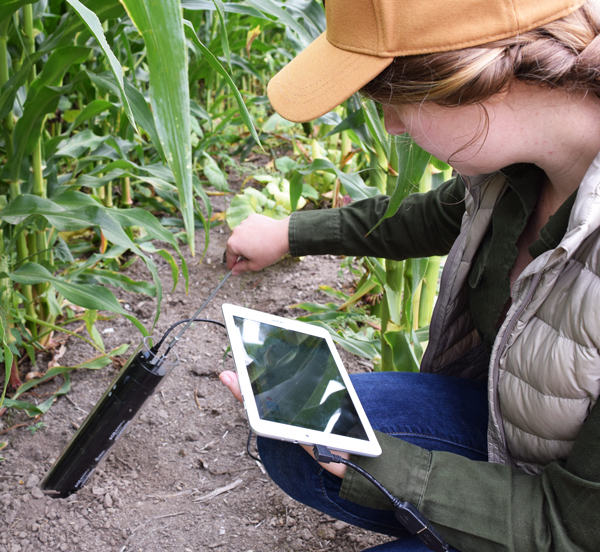
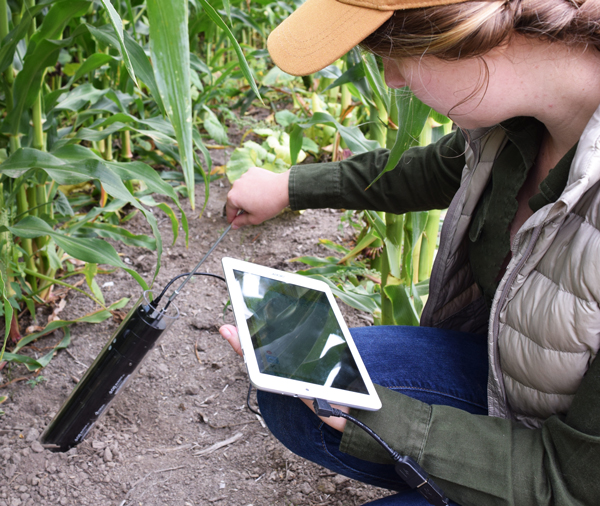
alt text for images added, images recropped for better visibility

diff --git a/index.html b/index.html
@@ -45,7 +45,7 @@
           <div class="row center-block"> <!-- intro content -->
 
             <div class="col-md-4 col-md-offset-1">
-              <img src="images/minirhiz-howitworks.gif" class="img-responsive">
+              <img src="images/minirhiz-howitworks.gif" class="img-responsive" alt="Using minirhizotrons">
             </div>
 
             <div class="col-md-6 col-md-offset-1 less-margin">
@@ -92,19 +92,19 @@
 
             <div class="col-md-4 image-div">
 
-              <img src="images/602.jpg" class="img-responsive">
+              <img src="images/602.jpg" class="img-responsive" alt="Minirhizotron with corn">
 
             </div>
 
             <div class="col-md-4 image-div">
 
-              <img src="images/roots.jpg" class="img-responsive">
+              <img src="images/roots.jpg" class="img-responsive" alt="Root image captured with minirhizotron">
 
             </div>
 
             <div class="col-md-4 image-div">
 
-              <img src="images/600.jpg" class="img-responsive">
+              <img src="images/600.jpg" class="img-responsive" alt="Minirhizotron in use">
 
             </div>
 
